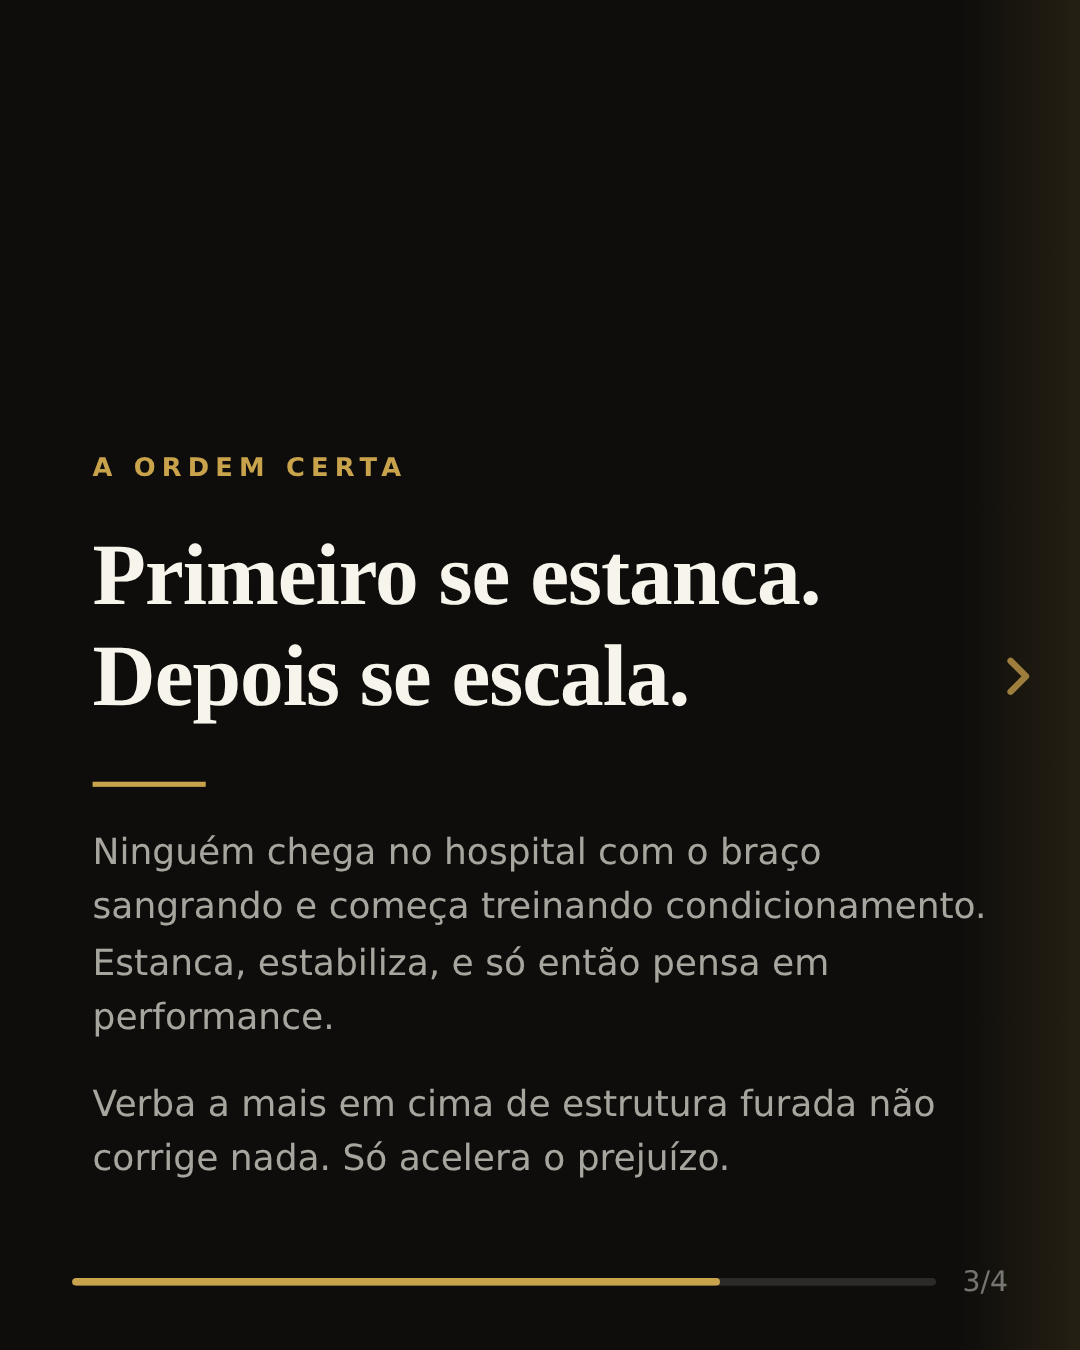
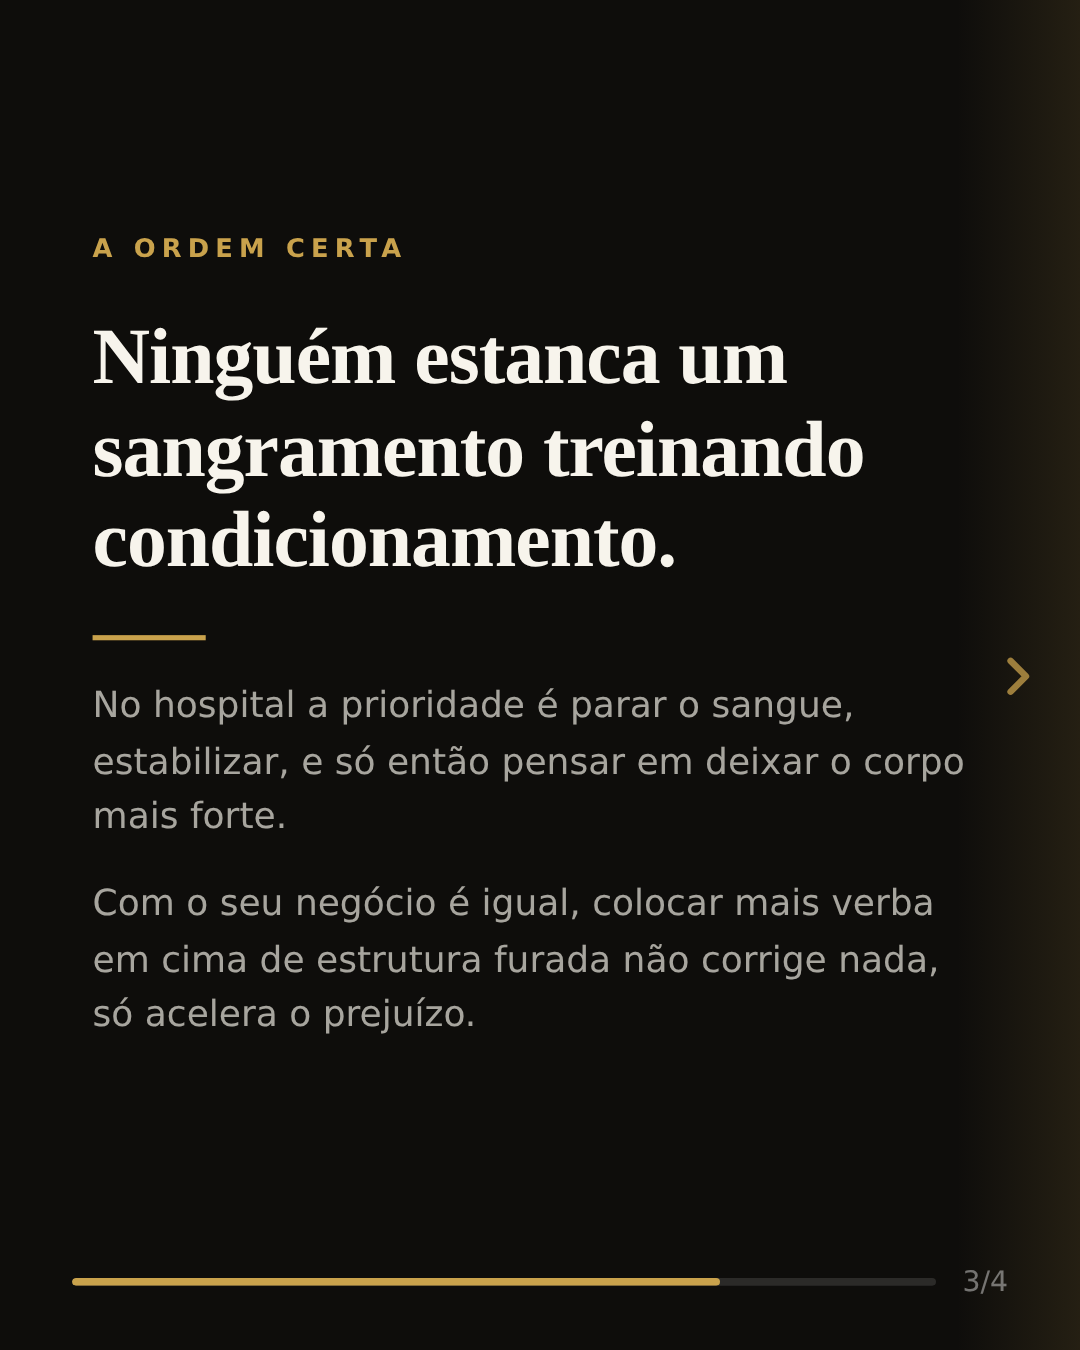
Vitoria Daniela: aplica o feedback dela no carrossel (virgula, naturalidade, layout)
Tres apontamentos da cliente, todos procedentes.

Excesso de ponto: a regra esta no Guia 1 dela ("nunca quebre uma ideia em
frases curtas separadas por ponto quando ela flui como uma coisa so, use
virgula") e eu tinha me apoiado na leitura de "frase curta" da Diretriz,
passando por cima dela. Reescrito com frases corridas.

Frases com cara de IA: a causa era a mesma, o padrao "Nao e X. E Y." repetido
em tres cards. Todos reescritos, incluindo os titulos dos cards 3 e 4.

Layout: os quatro cards passam a usar o mesmo principio, lockup no topo quando
existe e bloco de texto centralizado no espaco restante, com folga igual em
cima e embaixo. Antes os cards 2 e 3 tinham o texto colado no rodape com um
vazio grande em cima.

Botao do card 4 vira "Clique em Saiba Mais" a pedido dela.

Registra as tres licoes em aprendizados.md e promove a regra da virgula a
secao propria nas diretrizes, com item novo no checklist, pra nao repetir.

Claude-Session: https://claude.ai/code/session_013Sa3HLQHYweprDFbfMtnWK

diff --git a/clientes/vitoria-daniela/copy/2026-08-06-carrossel-sessao-gratuita/carrossel.html b/clientes/vitoria-daniela/copy/2026-08-06-carrossel-sessao-gratuita/carrossel.html
@@ -151,7 +151,7 @@ function filete(fundo) {
 }
 
 function botaoCta(texto) {
-  return `<div class="sans" style="display:inline-flex;align-items:center;gap:8px;padding:13px 26px;background:${BRAND.darkBg};color:${BRAND.primary};font-weight:600;font-size:13.5px;border-radius:28px;letter-spacing:.2px;">${texto}</div>`;
+  return `<div class="sans" style="display:inline-flex;align-items:center;justify-content:center;text-align:center;padding:14px 30px;background:${BRAND.darkBg};color:${BRAND.primary};font-weight:600;font-size:14px;border-radius:28px;letter-spacing:.2px;">${texto}</div>`;
 }
 
 function barraProgresso(indice, total, fundo) {
@@ -181,50 +181,50 @@ function setaSwipe(fundo) {
 /* ====================== OS 4 CARDS ====================== */
 const SLIDES = [
 
-  /* 1 — GANCHO: o dado dela, virado em confronto. */
+  /* 1 — GANCHO: o dado dela, em frase corrida. Bloco centralizado. */
   { fundo: 'dark', corpo: `
-    <div class="slide-content" style="justify-content:space-between;padding:36px 36px 62px;">
+    <div class="slide-content" style="padding:38px 36px 64px;">
       ${lockup('dark')}
-      <div>
+      <div style="flex:1;display:flex;flex-direction:column;justify-content:center;">
         ${tag('TRÁFEGO', 'dark')}
-        ${titulo('8 em cada 10 empresários que eu converso já queimaram dinheiro em tráfego.', 'dark', 30)}
+        ${titulo('De cada 10 empresários que eu converso, 8 já queimaram dinheiro em tráfego.', 'dark', 30)}
         ${filete('dark')}
-        ${paragrafo('E quase nunca o problema estava no tráfego.', 'dark')}
+        ${paragrafo('E quase nunca o problema estava no tráfego, estava em tudo que vinha depois dele.', 'dark')}
       </div>
     </div>
   `},
 
   /* 2 — ANALOGIA DELA: a torneira aberta com vazamentos (está no site). */
   { fundo: 'light', corpo: `
-    <div class="slide-content" style="justify-content:flex-end;padding:0 36px 62px;">
+    <div class="slide-content" style="justify-content:center;padding:38px 36px 64px;">
       ${tag('ONDE O DINHEIRO SOME', 'light')}
       ${titulo('Anúncio sem estrutura é torneira aberta em cano furado.', 'light', 31)}
-      ${paragrafo('O dinheiro entra pelo anúncio e vaza no caminho. Vaza no perfil que não sustenta a promessa, na mensagem que ninguém responde a tempo, na proposta que fica sem resposta.', 'light')}
-      <p class="serif" style="font-size:17px;line-height:1.35;color:${BRAND.dark};font-style:italic;margin-top:18px;">Você não tem problema de volume. Você tem vazamento.</p>
+      ${paragrafo('O dinheiro entra pelo anúncio e vaza no caminho, no perfil que promete uma coisa e mostra outra, na mensagem que fica três dias sem resposta, na proposta que foi enviada e ninguém retomou.', 'light')}
+      <p class="serif" style="font-size:17px;line-height:1.35;color:${BRAND.dark};font-style:italic;margin-top:18px;">Você não tem problema de volume, você tem vazamento.</p>
     </div>
   `},
 
   /* 3 — PRINCÍPIO: a ordem certa, com a analogia do hospital que ela usa. */
   { fundo: 'dark', corpo: `
-    <div class="slide-content" style="justify-content:flex-end;padding:0 36px 62px;">
+    <div class="slide-content" style="justify-content:center;padding:38px 36px 64px;">
       ${tag('A ORDEM CERTA', 'dark')}
-      ${titulo('Primeiro se estanca. Depois se escala.', 'dark', 34)}
+      ${titulo('Ninguém estanca um sangramento treinando condicionamento.', 'dark', 31)}
       ${filete('dark')}
-      ${paragrafo('Ninguém chega no hospital com o braço sangrando e começa treinando condicionamento. Estanca, estabiliza, e só então pensa em performance.', 'dark')}
-      ${paragrafo('Verba a mais em cima de estrutura furada não corrige nada. Só acelera o prejuízo.', 'dark', 12)}
+      ${paragrafo('No hospital a prioridade é parar o sangue, estabilizar, e só então pensar em deixar o corpo mais forte.', 'dark')}
+      ${paragrafo('Com o seu negócio é igual, colocar mais verba em cima de estrutura furada não corrige nada, só acelera o prejuízo.', 'dark', 12)}
     </div>
   `},
 
   /* 4 — VIRADA + CTA: o funil real dela (aplicação, análise pessoal em 24h). */
   { fundo: 'gradient', corpo: `
-    <div class="slide-content" style="justify-content:space-between;padding:36px 36px 62px;">
+    <div class="slide-content" style="padding:38px 36px 64px;">
       ${lockup('gradient')}
-      <div>
+      <div style="flex:1;display:flex;flex-direction:column;justify-content:center;">
         ${tag('O PRÓXIMO PASSO', 'gradient')}
-        ${titulo('O primeiro passo não é investir mais. É saber onde está vazando.', 'gradient', 29)}
-        ${paragrafo('Eu analiso pessoalmente cada aplicação e devolvo o direcionamento em menos de 24h. Não é sessão genérica, é leitura do seu momento e dos próximos passos.', 'gradient')}
-        <div style="margin-top:22px;">
-          ${botaoCta('Deixei o link nos comentários')}
+        ${titulo('Antes de investir mais, vale saber por onde o seu dinheiro está saindo.', 'gradient', 29)}
+        ${paragrafo('Eu analiso pessoalmente cada aplicação e devolvo o direcionamento em menos de 24h, olhando o seu momento e o que precisa ser resolvido primeiro.', 'gradient')}
+        <div style="margin-top:24px;">
+          ${botaoCta('Clique em Saiba Mais')}
         </div>
       </div>
     </div>

diff --git a/clientes/vitoria-daniela/contexto/diretrizes-de-comunicacao.md b/clientes/vitoria-daniela/contexto/diretrizes-de-comunicacao.md
@@ -59,9 +59,29 @@ própria acomodação, sempre com saída prática.
 
 ## 3. O que fazer
 
-**Direto e sem rodeios.** Frase curta, ritmo, cada frase prepara a próxima.
+### ⚠ A regra da vírgula (a que mais erramos)
 
-- ✅ "Você não precisa parecer rica. Precisa pensar como quem é."
+Está no Guia 1 e vale para **qualquer texto**, sem exceção:
+
+> "Nunca quebre uma ideia em frases curtas separadas por ponto quando ela flui como uma
+> coisa só, use vírgula e escreva do jeito que a Vitória fala, frases mais corridas,
+> conectadas por vírgula, sem parar toda hora."
+
+Ponto só se justifica quando a frase seguinte carrega **fato novo**. Mesmo raciocínio
+cortado em pedaços é erro, e é o que denuncia texto de IA na hora.
+
+O padrão **"Não é X. É Y."** é a assinatura mais óbvia de máquina. A cliente identificou
+isso na primeira entrega. Se a construção aparecer, junte com vírgula ou reescreva.
+
+- ✅ "Você não tem problema de volume, você tem vazamento."
+- ❌ "Você não tem problema de volume. Você tem vazamento."
+- ✅ "E quase nunca o problema estava no tráfego, estava em tudo que vinha depois dele."
+- ❌ "E quase nunca o problema estava no tráfego. Estava no que vinha depois."
+
+**Direto e sem rodeios**, mas sem picotar. O corte é no excesso de palavra, não no meio do
+raciocínio.
+
+- ✅ "Você não precisa parecer rica, precisa pensar como quem é."
 - ❌ "Talvez seja interessante repensar a forma como você se posiciona financeiramente."
 
 **Começa pelo fenômeno humano, nunca pelo serviço.** Abre pela observação do dia a dia,
@@ -180,6 +200,8 @@ profissional, ser você (vs. performar), mediano, prosperidade, confiança.
 - [ ] A CTA é lógica e específica com o ângulo do texto, nunca imperativa nem genérica?
 - [ ] Nenhuma palavra da lista proibida foi usada?
 - [ ] Nenhum travessão?
+- [ ] **Nenhum ponto cortando raciocínio que deveria fluir com vírgula?**
+- [ ] **Nenhum "Não é X. É Y."?**
 - [ ] Nenhuma palavra do vocabulário terapêutico (cura, sombra, alma, colo, essência)?
 - [ ] Soa como a Vitória falando, ou poderia ter sido escrito por qualquer pessoa do mercado?
 - [ ] A peça fala com profissional experiente, e não com iniciante de "poucos seguidores"?

diff --git a/clientes/vitoria-daniela/aprendizados.md b/clientes/vitoria-daniela/aprendizados.md
@@ -9,3 +9,6 @@ adicionar uma linha. É a memória que se acumula ao longo do tempo.
 | 2026-08-06 | A pasta de referência do Drive mistura 4 sistemas de voz incompatíveis. Só o Grupo A (Diretrizes de escrita, Guia 1, Metodologia de venda, Criação de vídeos) é fonte de verdade. Ver `contexto/fontes-drive.md`. | Leitura dos 15 arquivos do Drive |
 | 2026-08-06 | 3 arquivos da pasta são de outra marca (Carol Rache / Namah, nicho de cura emocional), incluindo um chamado "Textos para se modelar". O vocabulário deles está na lista de palavras banidas da Vitória. Pendente confirmar com a cliente. | Leitura dos 15 arquivos do Drive |
 | 2026-08-06 | ICP correto é profissional experiente com autoridade offline e caixa para investir, não iniciante de poucos seguidores. Copy para iniciante é a origem provável do lead desqualificado. | Página Método Magna + "Criação de vídeos" |
+| 2026-08-07 | A regra da vírgula do Guia 1 vale acima da leitura de "frase curta" da Diretriz. Ponto no meio de raciocínio contínuo é o que ela identifica como texto de IA. O padrão "Não é X. É Y." é o pior ofensor e não pode aparecer. | Feedback dela no 1º carrossel |
+| 2026-08-07 | Analogia sempre vinda do repertório dela (torneira com vazamento, hospital, empresa com setores). Analogia emprestada de referência de terceiro soa fora da voz. | Feedback dela no 1º carrossel |
+| 2026-08-07 | Em carrossel, o bloco de texto centralizado com folga igual em cima e embaixo funciona melhor que texto colado no rodapé. Vale para todos os cards, para o conjunto ter o mesmo ritmo. | Feedback dela no 1º carrossel |
